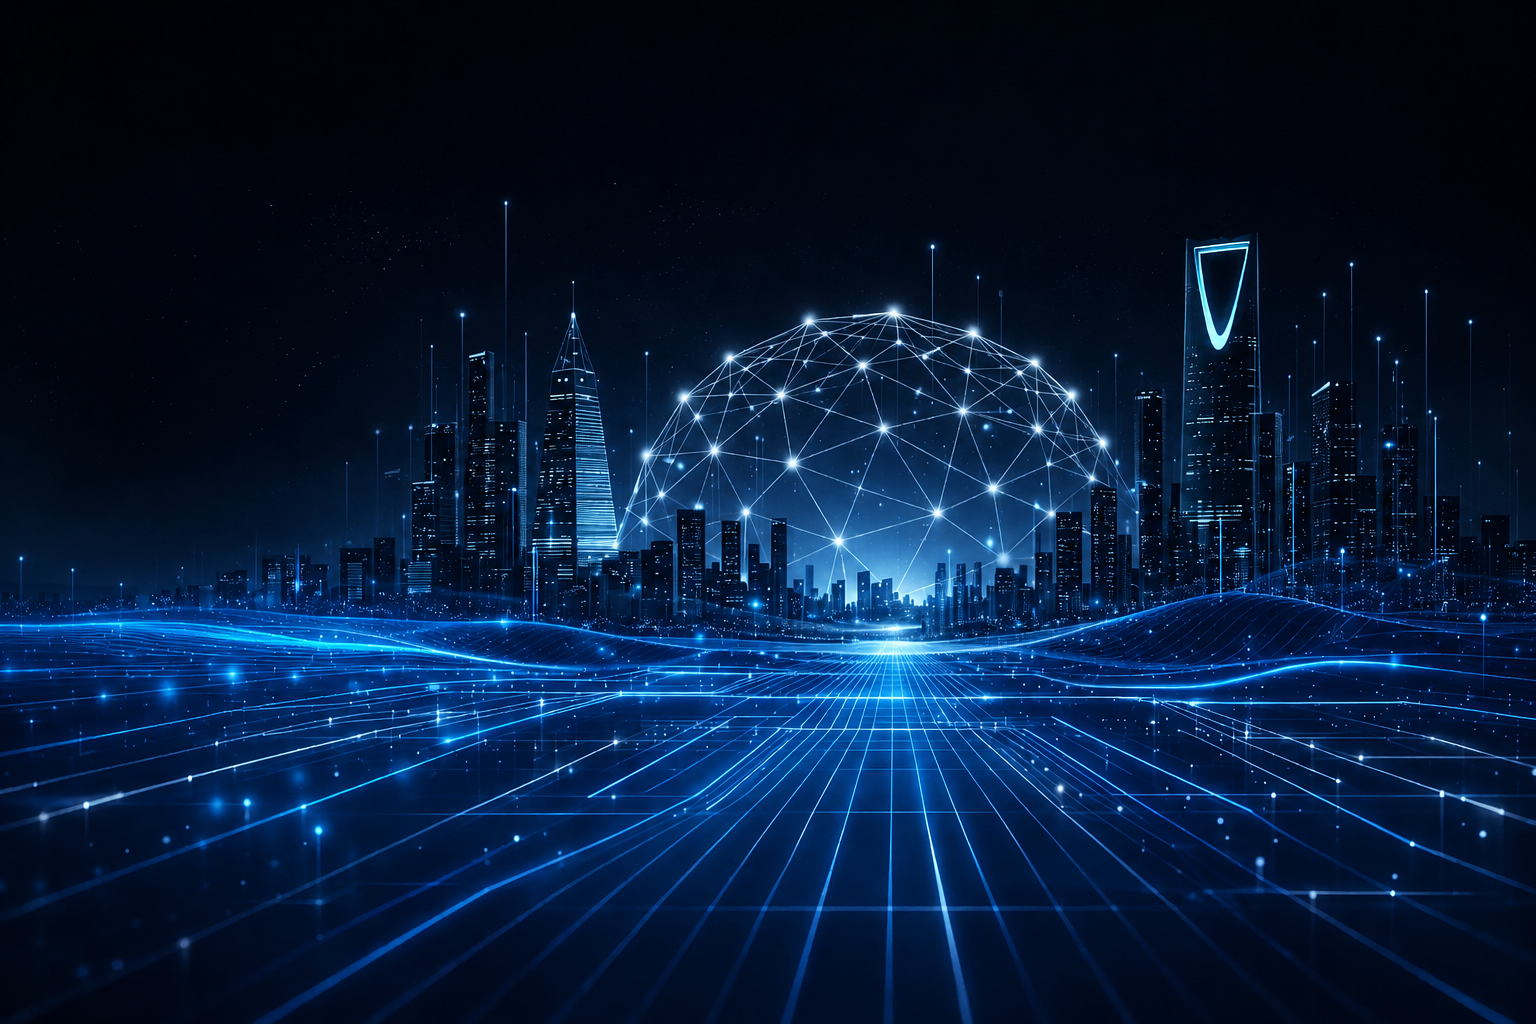
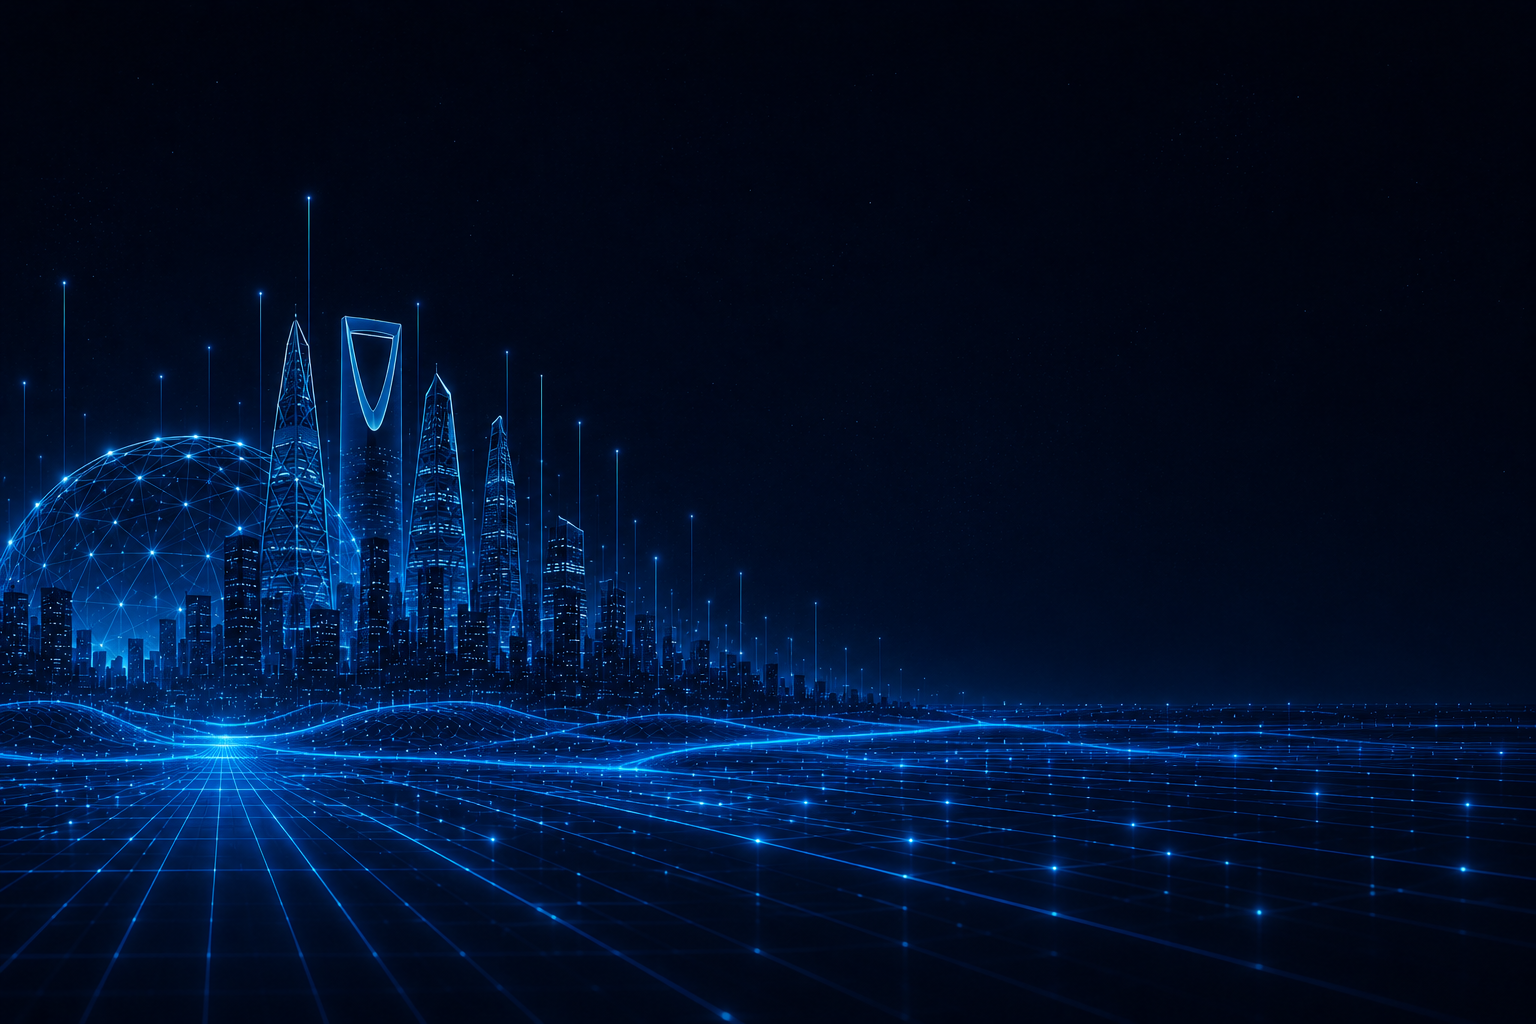
xs

diff --git a/src/pages/Servicespage.jsx b/src/pages/Servicespage.jsx
@@ -7,7 +7,7 @@ import ServiceRequestPopup from '../components/ServiceRequestPopup';
 import SnakeButton from '../components/SnakeButton';
 import { useReveal } from '../hooks/useReveal';
 import { useData } from '../DataContext';
-import { overrideServiceCard } from '../data/digitalMarketingService';
+import { canonicalServiceImagesBySlug, overrideServiceCard } from '../data/digitalMarketingService';
 
 const servicesData = {
   ar: {
@@ -20,12 +20,12 @@ const servicesData = {
     formTitle: 'هل تحتاج خدمة مخصصة؟',
     formSubtitle: 'أخبرنا بما تحتاجه وسنتواصل معك في أقرب وقت لمناقشة تفاصيل مشروعك.', 
     services: [
-      { slug: 'web-development', title: 'تطوير المواقع الإلكترونية', desc: 'نبني مواقع احترافية عالية الأداء تعكس هوية علامتك التجارية وتحقق أهدافك التجارية.', features: ['تصميم متجاوب مع كل الأجهزة', 'سرعة تحميل فائقة', 'تحسين محركات البحث SEO', 'لوحة إدارة سهلة الاستخدام'], icon: '🌐' },
-      { slug: 'e-commerce-website-development', title: 'تطوير المتاجر الإلكترونية', desc: 'متاجر إلكترونية متكاملة مع بوابات دفع آمنة وتجربة تسوق استثنائية تزيد مبيعاتك.', features: ['بوابات دفع متعددة', 'إدارة المخزون', 'تقارير المبيعات', 'تجربة مستخدم محسّنة'], icon: '🛒' },
-      { slug: 'mobile-app-development', title: 'تطوير التطبيقات', desc: 'تطبيقات جوال احترافية لنظامي iOS و Android تمنح مستخدميك تجربة استثنائية.', features: ['iOS و Android', 'أداء عالي', 'واجهة مستخدم جذابة', 'تكامل مع الخدمات الخارجية'], icon: '📱' },
-      { slug: 'erp-systems', title: 'أنظمة ERP', desc: 'أنظمة تخطيط موارد المؤسسة المخصصة لإدارة العمليات والحسابات والموارد البشرية بكفاءة عالية.', features: ['إدارة الموارد البشرية', 'المحاسبة والمالية', 'إدارة المخزون', 'تقارير ولوحات تحكم'], icon: '⚙️' },
-      { slug: 'ui-ux-design', title: 'تصميم UI/UX', desc: 'تصاميم جذابة وواجهات مستخدم بديهية تعكس هوية علامتك التجارية وتحقق أهدافك.', features: ['بحث المستخدمين', 'نماذج Wireframes', 'تصميم واجهات UI', 'تجربة المستخدم UX'], icon: '🎨' },
-      { slug: 'ai-solutions', title: 'التسويق الرقمي', desc: 'في البنية الماسية الرقمية نقدّم حلول تسويق إلكتروني متكاملة تساعدك على جذب العملاء، زيادة المبيعات، ورفع حضور علامتك التجارية على جميع المنصات الرقمية.', features: ['إدارة الحملات الإعلانية', 'إعداد الاستراتيجيات التسويقية', 'تحليل الأداء وتحسين النتائج', 'إدارة السوشيال ميديا'], icon: '📣' },
+      { slug: 'web-development', title: 'تطوير المواقع الإلكترونية', desc: 'نبني مواقع احترافية عالية الأداء تعكس هوية علامتك التجارية وتحقق أهدافك التجارية.', features: ['تصميم متجاوب مع كل الأجهزة', 'سرعة تحميل فائقة', 'تحسين محركات البحث SEO', 'لوحة إدارة سهلة الاستخدام'], icon: '🌐', cardImage: canonicalServiceImagesBySlug['web-development'] },
+      { slug: 'e-commerce-website-development', title: 'تطوير المتاجر الإلكترونية', desc: 'متاجر إلكترونية متكاملة مع بوابات دفع آمنة وتجربة تسوق استثنائية تزيد مبيعاتك.', features: ['بوابات دفع متعددة', 'إدارة المخزون', 'تقارير المبيعات', 'تجربة مستخدم محسّنة'], icon: '🛒', cardImage: canonicalServiceImagesBySlug['e-commerce-website-development'] },
+      { slug: 'mobile-app-development', title: 'تطوير التطبيقات', desc: 'تطبيقات جوال احترافية لنظامي iOS و Android تمنح مستخدميك تجربة استثنائية.', features: ['iOS و Android', 'أداء عالي', 'واجهة مستخدم جذابة', 'تكامل مع الخدمات الخارجية'], icon: '📱', cardImage: canonicalServiceImagesBySlug['mobile-app-development'] },
+      { slug: 'erp-systems', title: 'أنظمة ERP', desc: 'أنظمة تخطيط موارد المؤسسة المخصصة لإدارة العمليات والحسابات والموارد البشرية بكفاءة عالية.', features: ['إدارة الموارد البشرية', 'المحاسبة والمالية', 'إدارة المخزون', 'تقارير ولوحات تحكم'], icon: '⚙️', cardImage: canonicalServiceImagesBySlug['erp-systems'] },
+      { slug: 'ui-ux-design', title: 'تصميم UI/UX', desc: 'تصاميم جذابة وواجهات مستخدم بديهية تعكس هوية علامتك التجارية وتحقق أهدافك.', features: ['بحث المستخدمين', 'نماذج Wireframes', 'تصميم واجهات UI', 'تجربة المستخدم UX'], icon: '🎨', cardImage: canonicalServiceImagesBySlug['ui-ux-design'] },
+      { slug: 'ai-solutions', title: 'التسويق الرقمي', desc: 'في البنية الماسية الرقمية نقدّم حلول تسويق إلكتروني متكاملة تساعدك على جذب العملاء، زيادة المبيعات، ورفع حضور علامتك التجارية على جميع المنصات الرقمية.', features: ['إدارة الحملات الإعلانية', 'إعداد الاستراتيجيات التسويقية', 'تحليل الأداء وتحسين النتائج', 'إدارة السوشيال ميديا'], icon: '📣', cardImage: canonicalServiceImagesBySlug['ai-solutions'] },
     ],
   },
   en: {
@@ -38,12 +38,12 @@ const servicesData = {
     formTitle: 'Need a custom service?',
     formSubtitle: "Tell us what you need and we'll get back to you shortly to discuss your project details.",
     services: [
-      { slug: 'web-development', title: 'Website Development', desc: 'We build professional, high-performance websites that reflect your brand identity and achieve your business goals.', features: ['Responsive on all devices', 'Lightning fast loading', 'SEO optimization', 'Easy-to-use admin panel'], icon: '🌐' },
-      { slug: 'e-commerce-website-development', title: 'E-Commerce Development', desc: 'Full e-commerce solutions with secure payment gateways and exceptional shopping experiences that boost your sales.', features: ['Multiple payment gateways', 'Inventory management', 'Sales reports', 'Optimized UX'], icon: '🛒' },
-      { slug: 'mobile-app-development', title: 'Mobile App Development', desc: 'Professional mobile apps for iOS and Android that give your users an exceptional experience.', features: ['iOS & Android', 'High performance', 'Attractive UI', 'Third-party integration'], icon: '📱' },
-      { slug: 'erp-systems', title: 'ERP Systems', desc: 'Custom enterprise resource planning systems for efficient operations, accounting, and HR management.', features: ['HR Management', 'Accounting & Finance', 'Inventory Management', 'Reports & Dashboards'], icon: '⚙️' },
-      { slug: 'ui-ux-design', title: 'UI/UX Design', desc: 'Attractive designs and intuitive interfaces that reflect your brand identity and achieve your goals.', features: ['User Research', 'Wireframes', 'UI Interface Design', 'UX Optimization'], icon: '🎨' },
-      { slug: 'ai-solutions', title: 'Digital Marketing', desc: 'We deliver integrated digital marketing solutions that help you attract customers, increase sales, and strengthen your brand presence across digital platforms.', features: ['Ad campaign management', 'Marketing strategies', 'Performance analysis', 'Social media management'], icon: '📣' },
+      { slug: 'web-development', title: 'Website Development', desc: 'We build professional, high-performance websites that reflect your brand identity and achieve your business goals.', features: ['Responsive on all devices', 'Lightning fast loading', 'SEO optimization', 'Easy-to-use admin panel'], icon: '🌐', cardImage: canonicalServiceImagesBySlug['web-development'] },
+      { slug: 'e-commerce-website-development', title: 'E-Commerce Development', desc: 'Full e-commerce solutions with secure payment gateways and exceptional shopping experiences that boost your sales.', features: ['Multiple payment gateways', 'Inventory management', 'Sales reports', 'Optimized UX'], icon: '🛒', cardImage: canonicalServiceImagesBySlug['e-commerce-website-development'] },
+      { slug: 'mobile-app-development', title: 'Mobile App Development', desc: 'Professional mobile apps for iOS and Android that give your users an exceptional experience.', features: ['iOS & Android', 'High performance', 'Attractive UI', 'Third-party integration'], icon: '📱', cardImage: canonicalServiceImagesBySlug['mobile-app-development'] },
+      { slug: 'erp-systems', title: 'ERP Systems', desc: 'Custom enterprise resource planning systems for efficient operations, accounting, and HR management.', features: ['HR Management', 'Accounting & Finance', 'Inventory Management', 'Reports & Dashboards'], icon: '⚙️', cardImage: canonicalServiceImagesBySlug['erp-systems'] },
+      { slug: 'ui-ux-design', title: 'UI/UX Design', desc: 'Attractive designs and intuitive interfaces that reflect your brand identity and achieve your goals.', features: ['User Research', 'Wireframes', 'UI Interface Design', 'UX Optimization'], icon: '🎨', cardImage: canonicalServiceImagesBySlug['ui-ux-design'] },
+      { slug: 'ai-solutions', title: 'Digital Marketing', desc: 'We deliver integrated digital marketing solutions that help you attract customers, increase sales, and strengthen your brand presence across digital platforms.', features: ['Ad campaign management', 'Marketing strategies', 'Performance analysis', 'Social media management'], icon: '📣', cardImage: canonicalServiceImagesBySlug['ai-solutions'] },
     ],
   },
 };

diff --git a/src/components/Hero.jsx b/src/components/Hero.jsx
@@ -174,7 +174,7 @@ export default function Hero({ lang }) {
       </div> */}
 
       <div className="container hero-content-wrap" style={{ position: 'relative', zIndex: 4, width: '100%' }}>
-        <div style={{ maxWidth: 680 }}>
+        <div className="hero-text-block" style={{ maxWidth: 680 }}>
 
           {/* Title */}
           <h1 style={{
@@ -313,8 +313,26 @@ export default function Hero({ lang }) {
           flex: 0 0 auto;
         }
         @media (min-width: 1025px) {
-          .hero-content-wrap { transform: translateY(24px); }
-          #hero { padding-bottom: 112px !important; }
+          #hero {
+            align-items: flex-start !important;
+            padding-top: 165px !important;
+            padding-bottom: 40px !important;
+          }
+          .hero-content-wrap {
+            transform: none !important;
+          }
+          #hero .hero-text-block {
+            margin-right: 0 !important;
+            margin-left: auto !important;
+            transform: translateY(-10px);
+          }
+          html[dir="ltr"] #hero .hero-text-block {
+            margin-right: auto !important;
+            margin-left: 0 !important;
+          }
+          #hero .hero-image-wrap img {
+            object-position: 61% 44% !important;
+          }
         }
      @media (max-width: 768px) {
   #hero { min-height: 100svh !important; padding-top: 88px !important; padding-bottom: 96px !important; }

diff --git a/src/data/digitalMarketingService.js b/src/data/digitalMarketingService.js
@@ -1,14 +1,12 @@
-import uiUxImage from '../assets/services/ui ux.png';
-
 export const DIGITAL_MARKETING_SLUG = 'ai-solutions';
 
 export const canonicalServiceImagesBySlug = {
-  'web-development': 'https://res.cloudinary.com/dxxfpkx5y/image/upload/v1780490766/ChatGPT_Image_Jun_3_2026_03_30_44_PM_mabpls.png',
-  'e-commerce-website-development': 'https://res.cloudinary.com/dxxfpkx5y/image/upload/v1780490773/ChatGPT_Image_Jun_3_2026_03_32_23_PM_uxzmme.png',
-  'mobile-app-development': 'https://res.cloudinary.com/dxxfpkx5y/image/upload/v1780492386/ChatGPT_Image_Jun_3_2026_04_08_20_PM_gmfa5h.png?v=[phone redacted]',
-  'erp-systems': 'https://res.cloudinary.com/dxxfpkx5y/image/upload/v1780492458/ChatGPT_Image_Jun_3_2026_04_14_01_PM_itewvs.png?v=1780492458',
-  'ui-ux-design': 'https://res.cloudinary.com/dxxfpkx5y/image/upload/v1780492387/ChatGPT_Image_Jun_3_2026_04_07_08_PM_fig092.png?v=1780492387',
-  'ai-solutions': 'https://res.cloudinary.com/dxxfpkx5y/image/upload/v1780490772/ChatGPT_Image_Jun_3_2026_03_40_21_PM_o6oijd.png',
+  'web-development': 'https://res.cloudinary.com/dxxfpkx5y/image/upload/v1781286159/ChatGPT_Image_Jun_12_2026_08_30_33_PM_fyasdg.png',
+  'e-commerce-website-development': 'https://res.cloudinary.com/dxxfpkx5y/image/upload/v1781287900/ChatGPT_Image_Jun_12_2026_09_10_45_PM_li0chb.png',
+  'mobile-app-development': 'https://res.cloudinary.com/dxxfpkx5y/image/upload/v1781286161/ChatGPT_Image_Jun_12_2026_08_32_22_PM_t2ongq.png',
+  'erp-systems': 'https://res.cloudinary.com/dxxfpkx5y/image/upload/v1781287281/ChatGPT_Image_Jun_12_2026_09_00_59_PM_dvoafk.png',
+  'ui-ux-design': 'https://res.cloudinary.com/dxxfpkx5y/image/upload/v1781287675/ChatGPT_Image_Jun_12_2026_09_07_24_PM_k0ckhn.png',
+  'ai-solutions': 'https://res.cloudinary.com/dxxfpkx5y/image/upload/v1781287602/ChatGPT_Image_Jun_12_2026_09_06_03_PM_zz4jrk.png',
 };
 
 const serviceImages = import.meta.glob('../assets/services/*.{png,jpg,jpeg,webp,svg}', {
@@ -16,9 +14,7 @@ const serviceImages = import.meta.glob('../assets/services/*.{png,jpg,jpeg,webp,
   import: 'default',
 });
 
-const fixedServiceImageBySlug = {
-  'ui-ux-design': uiUxImage,
-};
+const fixedServiceImageBySlug = {};
 
 const serviceImageAliases = {
   'web-development': [
@@ -125,8 +121,8 @@ function findLocalServiceImage(service) {
 
 function resolveCanonicalSlug(service) {
   const text = `${service?.slug || ''} ${service?.title || ''} ${service?.titleAr || ''} ${service?.titleEn || ''}`.toLowerCase();
-  if (/web|موقع|المواقع/.test(text)) return 'web-development';
   if (/commerce|store|متجر|المتاجر/.test(text)) return 'e-commerce-website-development';
+  if (/web|موقع|المواقع/.test(text)) return 'web-development';
   if (/mobile|app|تطبيق/.test(text)) return 'mobile-app-development';
   if (/erp/.test(text)) return 'erp-systems';
   if (/ui|ux|design|تصميم|واجهات/.test(text)) return 'ui-ux-design';

diff --git a/src/components/Services.jsx b/src/components/Services.jsx
@@ -350,8 +350,10 @@ export default function ServicesPage({ lang }) {
                       loading="lazy"
                       style={{
                         width: '100%', height: '100%', objectFit: 'cover',
+                        objectPosition: 'center center',
+                        background: 'linear-gradient(145deg, rgba(2,4,20,0.96), rgba(7,11,32,0.92))',
                         transition: 'transform 0.6s cubic-bezier(0.16,1,0.3,1)',
-                        transform: isHov ? 'scale(1.06)' : 'scale(1)',
+                        transform: 'scale(1)',
                         display: 'block',
                       }}
                     />
@@ -523,8 +525,7 @@ export default function ServicesPage({ lang }) {
           50%     { opacity: 1;  transform: translate(-50%,-50%) scale(1.2); }
         }
 
-        /* card image hover zoom needs the img directly */
-        .svc-card:hover img { transform: scale(1.06) !important; }
+        .svc-card:hover img { transform: scale(1) !important; }
 
         @media (max-width: 900px) {
           #services .services-grid { grid-template-columns: repeat(2,1fr) !important; }